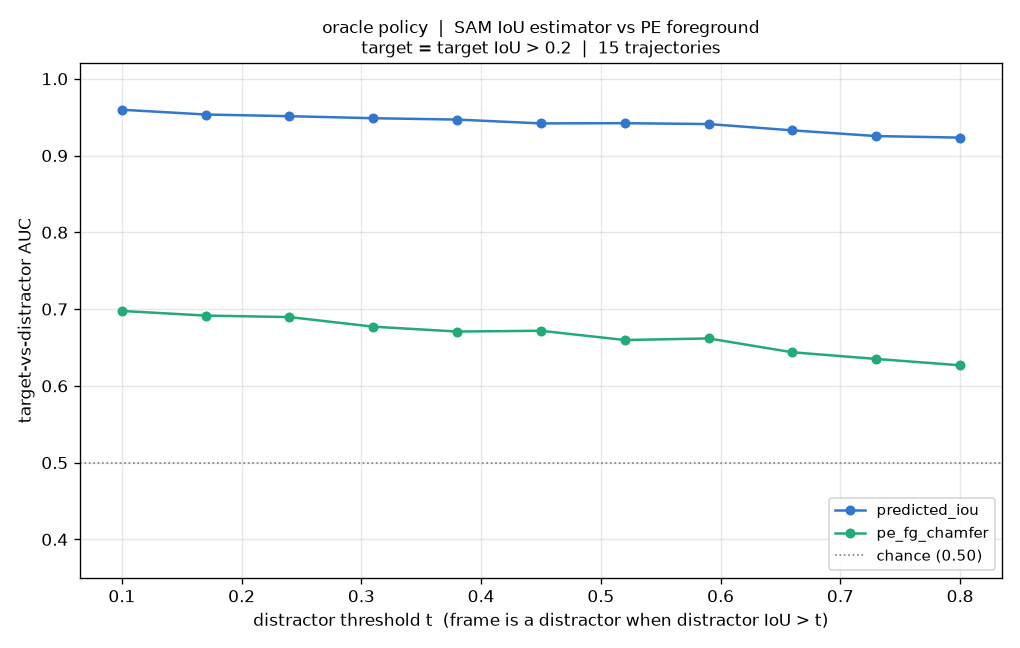
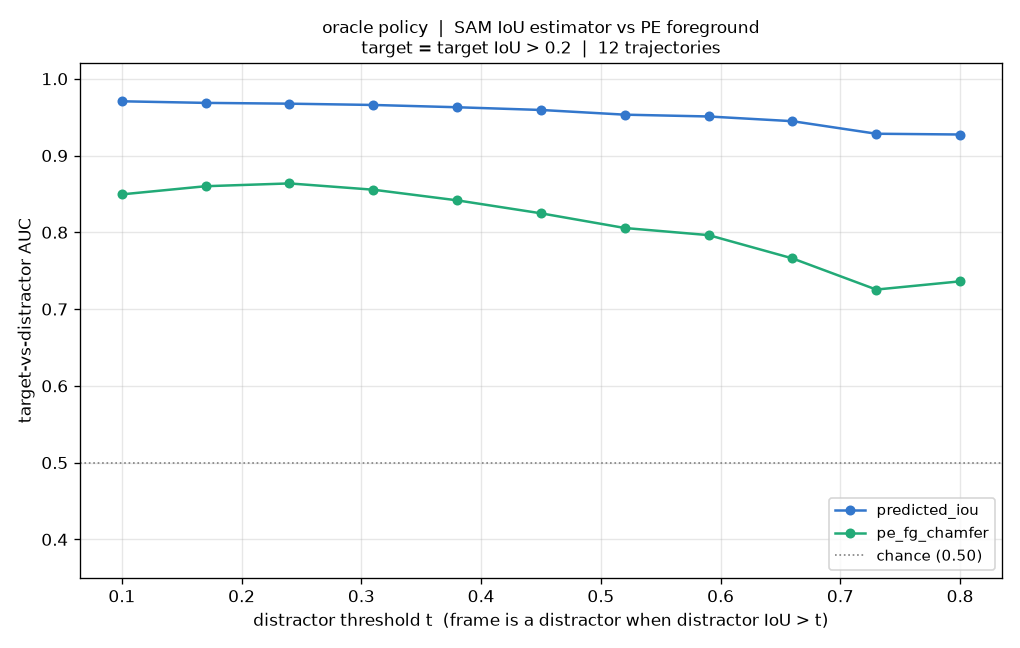
fixed baseline

diff --git a/covariate_shift.py b/covariate_shift.py
@@ -54,7 +54,7 @@ def pe_foreground_tokens(pe_encode, frames, masks, floor, crop_size, chunk=16):
     return [tokens[i][foreground[i]].clone() for i in range(len(crops))]
 
 
-def track_trajectory(tracker, pe_encode, detection_data, trajectory, visible_directory, crop_size, frame_cache):
+def track_trajectory(tracker, pe_encode, detection_data, trajectory, visible_directory, crop_size, frame_cache, max_frames):
     """Run one policy over a trajectory and return per-frame (target_iou, distractor_iou, predicted_iou,
     pe_fg_chamfer), or None if the anchor is missing. distractor_iou is the max over nearest distractors;
     pe_fg_chamfer is the proposal's PE foreground chamfer to the frame-0 target. `frame_cache` is a shared
@@ -67,6 +67,12 @@ def track_trajectory(tracker, pe_encode, detection_data, trajectory, visible_dir
         return None
 
     warmup = slice_detection_data_for_tracker(detection_data, anchor_index)
+    end = warmup + max_frames                            # cap the trajectory length before tracking
+    detection_data.frames = detection_data.frames[:end]
+    detection_data.bboxes_norm = detection_data.bboxes_norm[:end]
+    detection_data.occlusions = detection_data.occlusions[:end]
+    detection_data.frame_indices = detection_data.frame_indices[:end]
+
     tracker.frame_cache = frame_cache                   # reuse SAM image encodings across policies + label prompts
     predicted_masks = tracker.predict_masks(detection_data).numpy()
     predicted_iou = tracker.iou_scores.numpy()
@@ -86,7 +92,7 @@ def track_trajectory(tracker, pe_encode, detection_data, trajectory, visible_dir
     precomputed = {t: frame_cache[warmup + t] for t in range(len(frames)) if warmup + t in frame_cache}
     target_iou, distractor_iou = pseudo_iou_labels(
         tracker.model, frames, predicted_masks, boxes, clean_boxes, frame_indices, occlusions,
-        precomputed_features=precomputed if len(precomputed) == len(frames) else None)
+        precomputed_features=precomputed if len(precomputed) == len(frames) else None, include_occluded=True)
 
     # PE foreground chamfer of each proposal to the frame-0 target proposal (the anchor).
     floor = anchor_size_pixels(boxes[0], frames[0].shape)
@@ -157,7 +163,7 @@ def run(config: DictConfig):
         frame_cache = {}
         for policy in POLICIES:
             result = track_trajectory(trackers[policy], pe_encode, detection_data, trajectory,
-                                      config.detection_data.visible_directory, config.crop_size, frame_cache)
+                                      config.detection_data.visible_directory, config.crop_size, frame_cache, config.max_frames)
             if result is not None:
                 for column, values in zip(columns[policy], result):
                     column.append(values)
@@ -166,6 +172,11 @@ def run(config: DictConfig):
         if completed % config.plot_every == 0:                    # refresh both figures as they build
             for policy in POLICIES:
                 if columns[policy][0]:
+                    target_iou = np.concatenate(columns[policy][0])
+                    distractor_iou = np.concatenate(columns[policy][1])
+                    n_target = int((target_iou > config.target_threshold).sum())
+                    n_distractor = int(((distractor_iou > config.t_min) & (target_iou <= config.target_threshold)).sum())
+                    print(f"[{completed}] {policy:9s} frames: target={n_target}  distractor(>{config.t_min})={n_distractor}", flush=True)
                     plot_policy(policy, curves_from(columns[policy]), t_values, config.target_threshold, completed, f"{config.plot_prefix}_{policy}.png")
 
     all_curves = {}

diff --git a/src/offline_training/dataset_labels.py b/src/offline_training/dataset_labels.py
@@ -48,10 +48,14 @@ def _box_center(b):
 
 @torch.inference_mode()
 def pseudo_iou_labels(model, frames, predicted_masks, target_boxes, clean_boxes_by_frame,
-                      frame_indices, occlusions, k=3, chunk=4, precomputed_features=None):
+                      frame_indices, occlusions, k=3, chunk=4, precomputed_features=None, include_occluded=False):
     """Return target_iou (n,) and distractor_iou (n, k). Each frame's proposal mask is scored against the
-    box-prompted pseudo-GT of the target and the k nearest clean distractors. Occluded frames stay zero;
-    fewer than k distractors leaves the remaining columns zero.
+    box-prompted pseudo-GT of the target and the k nearest clean distractors. Fewer than k distractors
+    leaves the remaining columns zero.
+
+    include_occluded: if False (default), occluded frames stay zero. If True, occluded frames are still
+    scored for DISTRACTOR IoU (the target has no GT box so target_iou stays 0, but a distractor overlap is
+    an unambiguous capture) -- used to catch captures that happen while the target is occluded.
 
     precomputed_features: optional {t: [lowres, hires_x2, hires_x4]} per-frame image encodings (B=1) to
     reuse instead of re-running the SAM image encoder -- the same 3-map list the trackers cache."""
@@ -70,7 +74,7 @@ def pseudo_iou_labels(model, frames, predicted_masks, target_boxes, clean_boxes_
         return float((predicted & pseudo_gt).sum() / union) if union > 0 else 0.0
 
     def score_frame(t, single):
-        if occlusions[t] > 0.5:
+        if occlusions[t] > 0.5 and not include_occluded:
             return
         predicted = np.asarray(predicted_masks[t]) > 0
         if float(target_boxes[t][2]) > 0.0:
